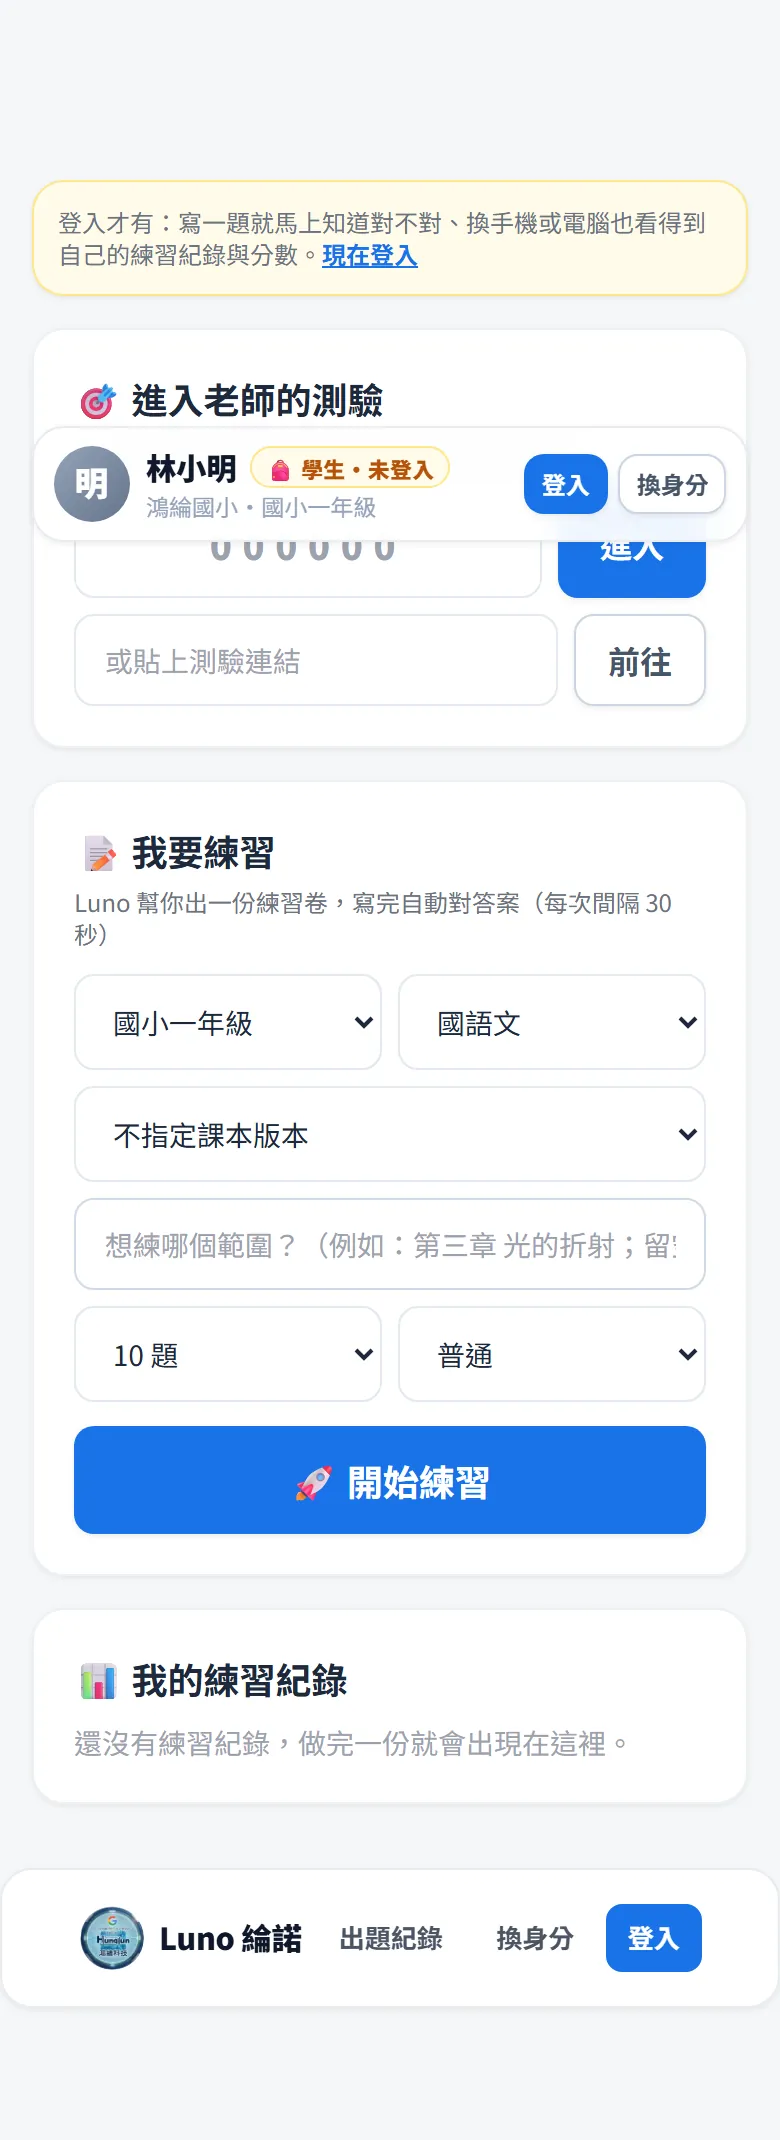
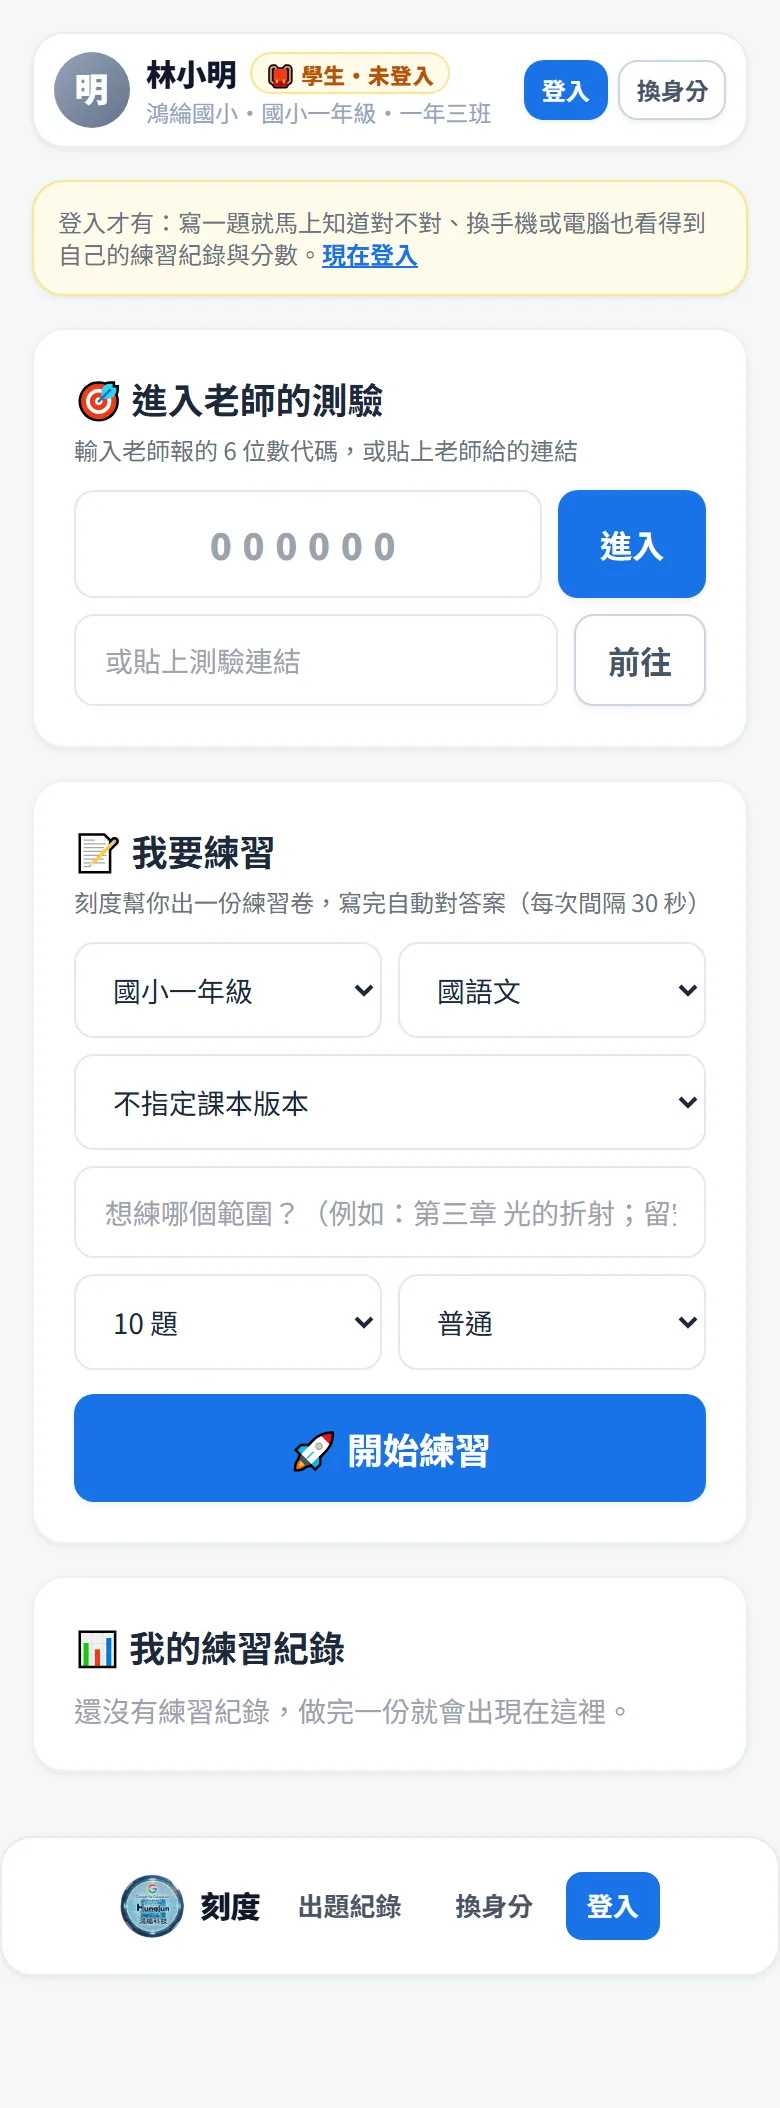
重拍說明書學生首頁圖

diff --git a/public/manual.html b/public/manual.html
@@ -225,7 +225,7 @@
     <h2><span class="m-no">8</span>學生</h2>
     <h3>進入學生首頁</h3>
     <p>選「我是學生」，第一次會問要「我要練習（不用註冊）」還是登入。不登入的話填一下學校、年級、班級、姓名，資料只存在這台裝置。</p>
-    <figure class="m-fig is-phone"><img src="manual/img/student-home.webp" alt="學生首頁，有進入老師的測驗和我要練習" loading="lazy" width="780" height="2140"><figcaption>學生首頁（手機）</figcaption></figure>
+    <figure class="m-fig is-phone"><img src="manual/img/student-home.webp" alt="學生首頁，有進入老師的測驗和我要練習" loading="lazy" width="780" height="2108"><figcaption>學生首頁（手機）</figcaption></figure>
     <h3>寫老師的測驗</h3>
     <ol>
         <li>在「進入老師的測驗」輸入老師報的 6 位數代碼按「進入」；或把老師給的連結貼上按「前往」，也可以直接點老師傳來的連結。</li>
